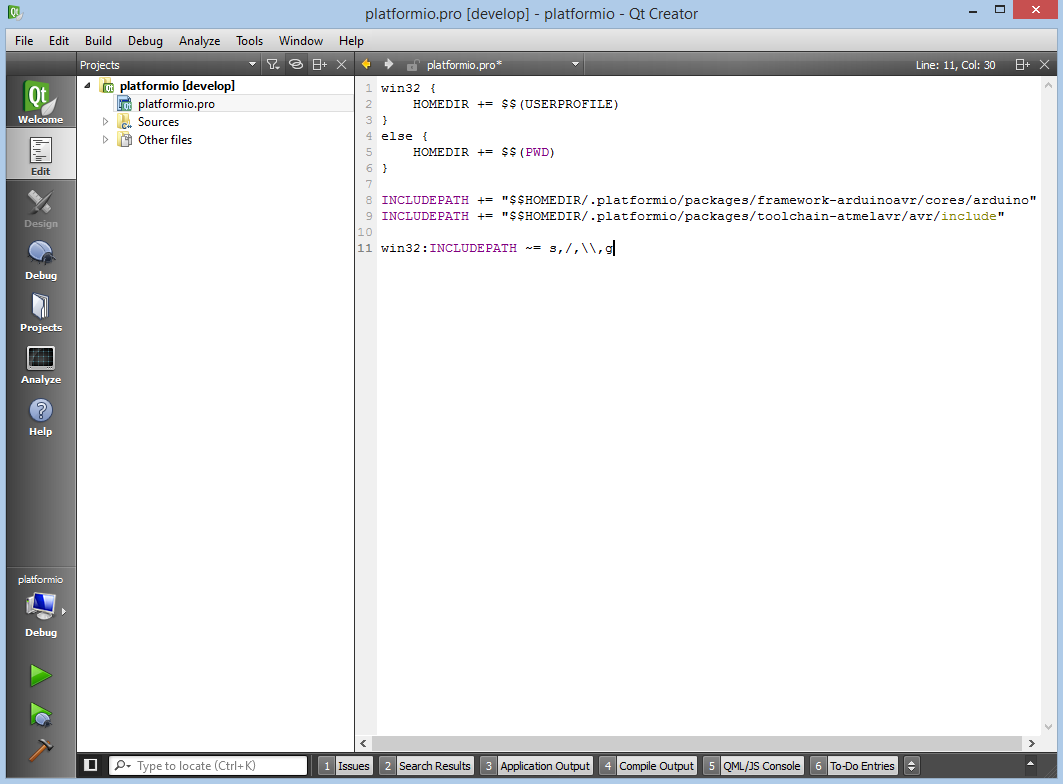
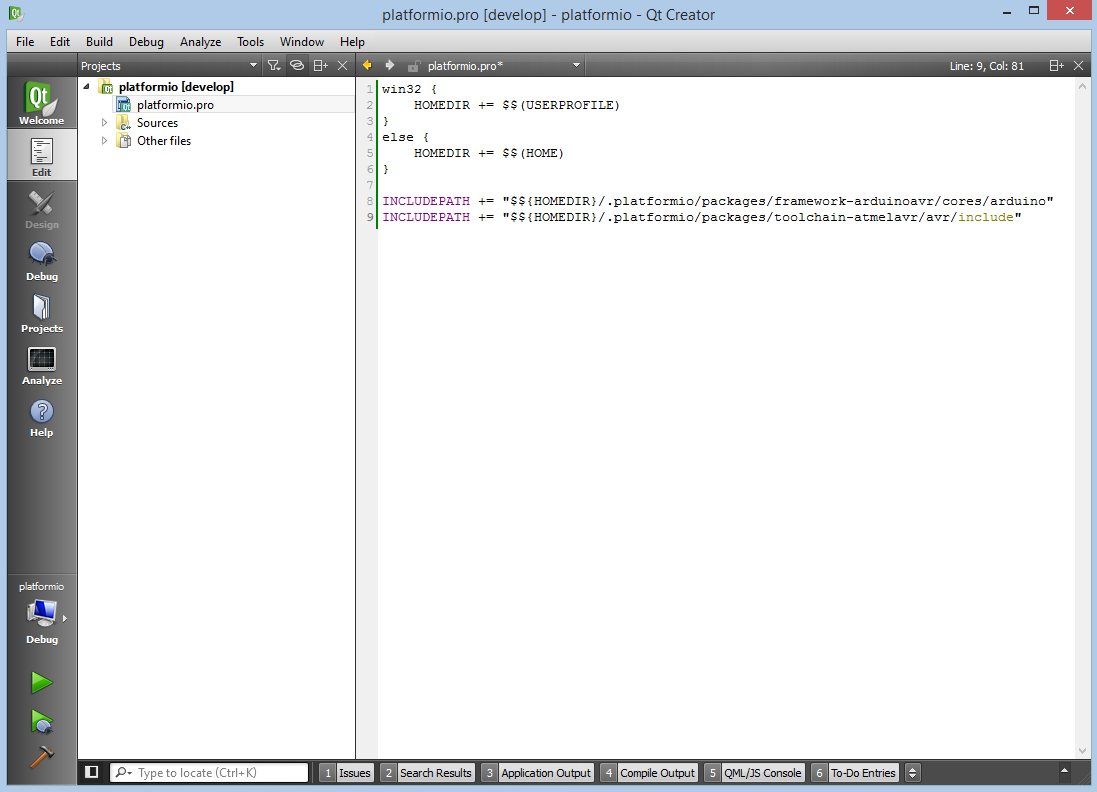
Update IDE integration instructions for Qt Creator and VisualStudio

diff --git a/docs/ide/qtcreator.rst b/docs/ide/qtcreator.rst
@@ -32,6 +32,11 @@ Since PlatformIO 2.0 you can generate Qt Creator compatible project using
 Then import this project via ``File > New File or Project > Import Project``
 and specify root directory where is located :ref:`projectconf`.
 
+After import, we need to delete default build and clean steps and configure project with PlatformIO source code builder (click on Projects label on left menu or ``Ctrl+5`` shortcut):
+
+.. image:: ../_static/ide-platformio-qtcreator-3.png
+    :target: ../_static/ide-platformio-qtcreator-3.png
+
 Manual Integration
 ^^^^^^^^^^^^^^^^^^
 
@@ -41,14 +46,16 @@ Setup New Project
 First of all, let's create new project from Qt Creator Start Page: ``New Project`` or using ``Menu: File > New File or Project``, then select project with ``Empty Qt Project`` type (``Other Project > Empty Qt Project``), fill ``Name``, ``Create in``.
 
 .. image:: ../_static/ide-platformio-qtcreator-1.png
+    :target: ../_static/ide-platformio-qtcreator-1.png
 
 On the next steps select any available kit and click Finish button.
 
 .. image:: ../_static/ide-platformio-qtcreator-2.png
 
-Secondly, we need to configure project with PlatformIO source code builder (click on Projects label on left menu or ``Ctrl+5`` shortcut):
+Secondly, we need to delete default build and clean steps and configure project with PlatformIO source code builder (click on Projects label on left menu or ``Ctrl+5`` shortcut):
 
 .. image:: ../_static/ide-platformio-qtcreator-3.png
+    :target: ../_static/ide-platformio-qtcreator-3.png
 
 Thirdly, change project file by adding path to directories with header files. Please edit project file to match the following contents:
 
@@ -58,15 +65,14 @@ Thirdly, change project file by adding path to directories with header files. Pl
         HOMEDIR += $$(USERPROFILE)
     }
     else {
-        HOMEDIR += $$(PWD)
+        HOMEDIR += $$(HOME)
     }
 
-    INCLUDEPATH += "$$HOMEDIR/.platformio/packages/framework-arduinoavr/cores/arduino"
-    INCLUDEPATH += "$$HOMEDIR/.platformio/packages/toolchain-atmelavr/avr/include"
-
-    win32:INCLUDEPATH ~= s,/,\\,g
+    INCLUDEPATH += "$${HOMEDIR}/.platformio/packages/framework-arduinoavr/cores/arduino"
+    INCLUDEPATH += "$${HOMEDIR}/.platformio/packages/toolchain-atmelavr/avr/include"
 
 .. image:: ../_static/ide-platformio-qtcreator-4.png
+    :target: ../_static/ide-platformio-qtcreator-4.png
 
 First program in Qt Creator
 ~~~~~~~~~~~~~~~~~~~~~~~~~~~
@@ -77,6 +83,7 @@ Simple "Blink" project will consist from two files:
 Let's create new text file named ``main.c`` using ``Menu: New File or Project > General > Text File``:
 
 .. image:: ../_static/ide-platformio-qtcreator-5.png
+    :target: ../_static/ide-platformio-qtcreator-5.png
 
 Copy the source code which is described below to file ``main.c``.
 
@@ -101,6 +108,7 @@ Copy the source code which is described below to file ``main.c``.
 3. Locate the project configuration file named ``platformio.ini`` at the root of the project directory and open it.
 
 .. image:: ../_static/ide-platformio-qtcreator-6.png
+    :target: ../_static/ide-platformio-qtcreator-6.png
 
 Edit the content to match the code described below.
 
@@ -128,3 +136,5 @@ Conclusion
 Taking everything into account, we can build project with shortcut ``Ctrl+Shift+B`` or using ``Menu: Build > Build All``:
 
 .. image:: ../_static/ide-platformio-qtcreator-7.png
+    :target: ../_static/ide-platformio-qtcreator-7.png
+

diff --git a/docs/ide/visualstudio.rst b/docs/ide/visualstudio.rst
@@ -123,3 +123,4 @@ Conclusion
 Taking everything into account, we can build project with shortcut ``Ctrl+Shift+B`` or using ``Menu: Build > Build Solution``:
 
 .. image:: ../_static/ide-vs-platformio-newproject-8.png
+    :target: ../_static/ide-vs-platformio-newproject-8.png
